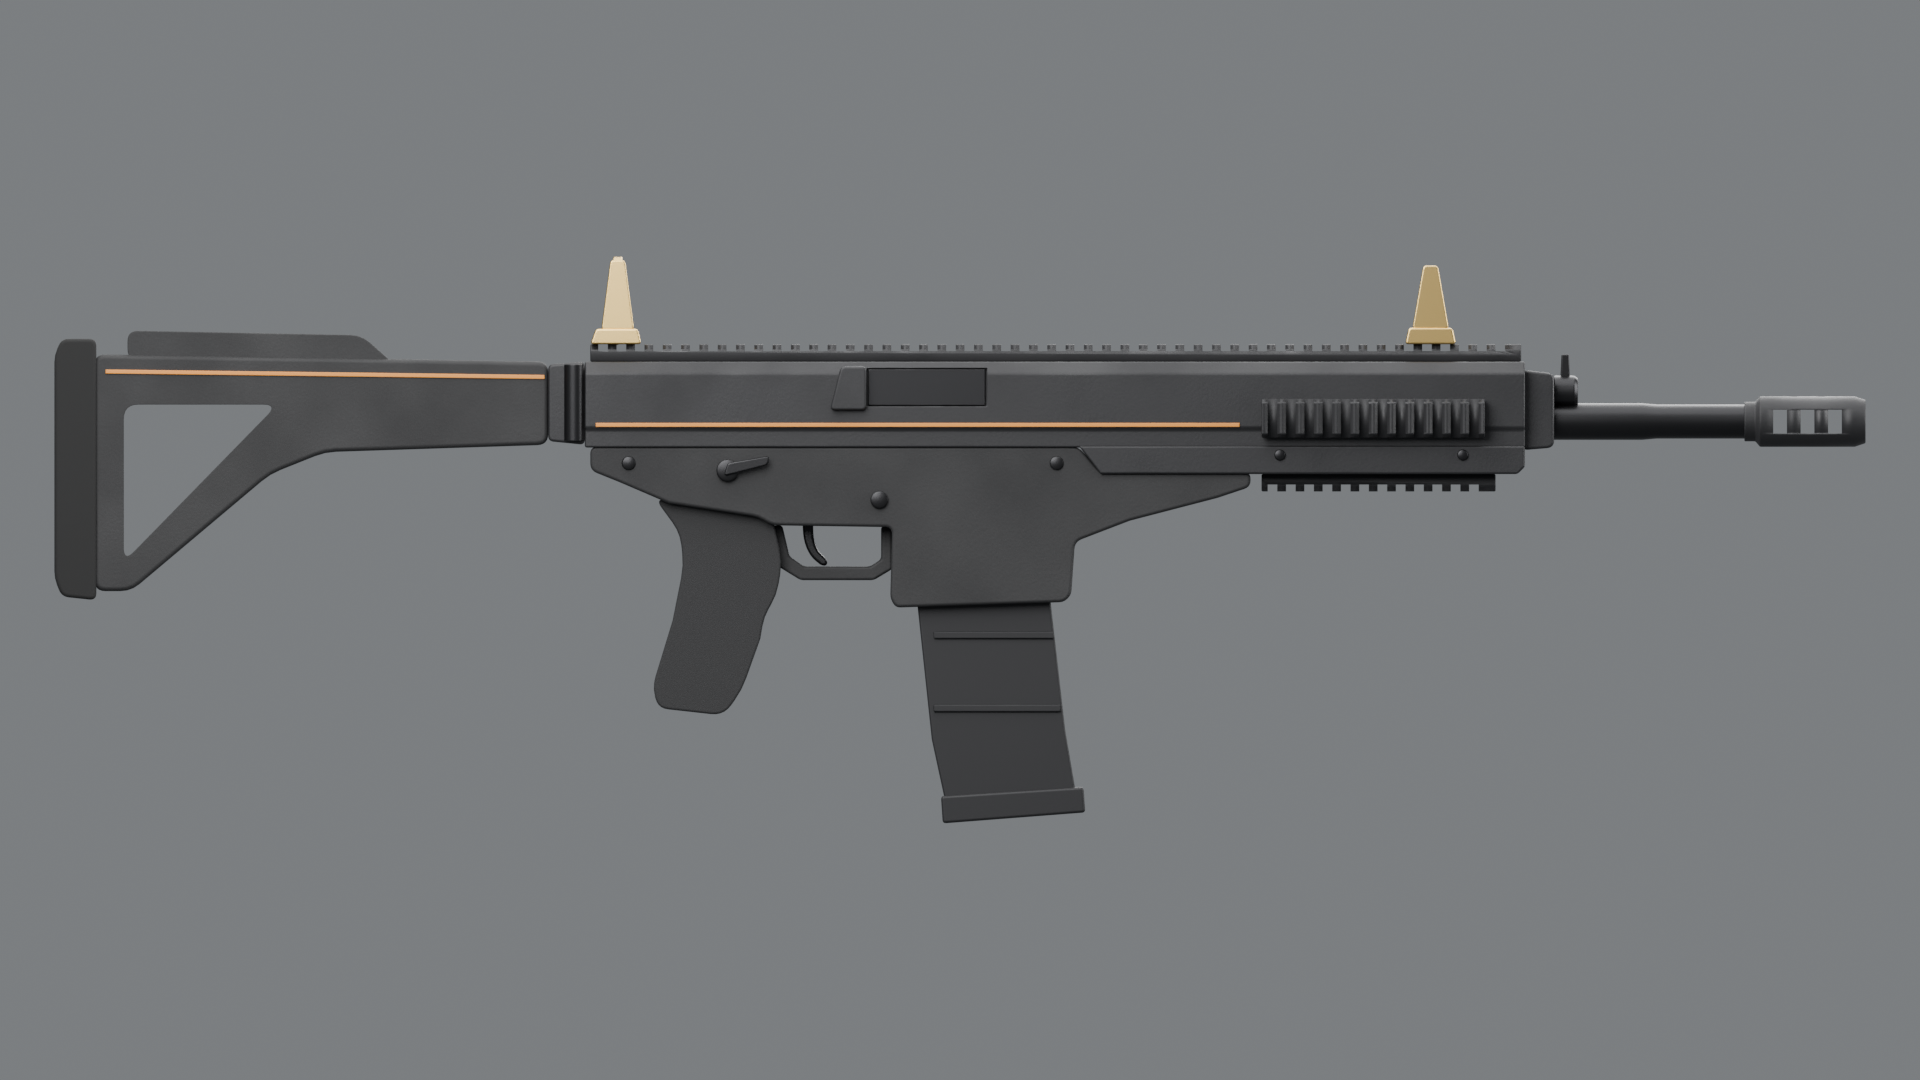
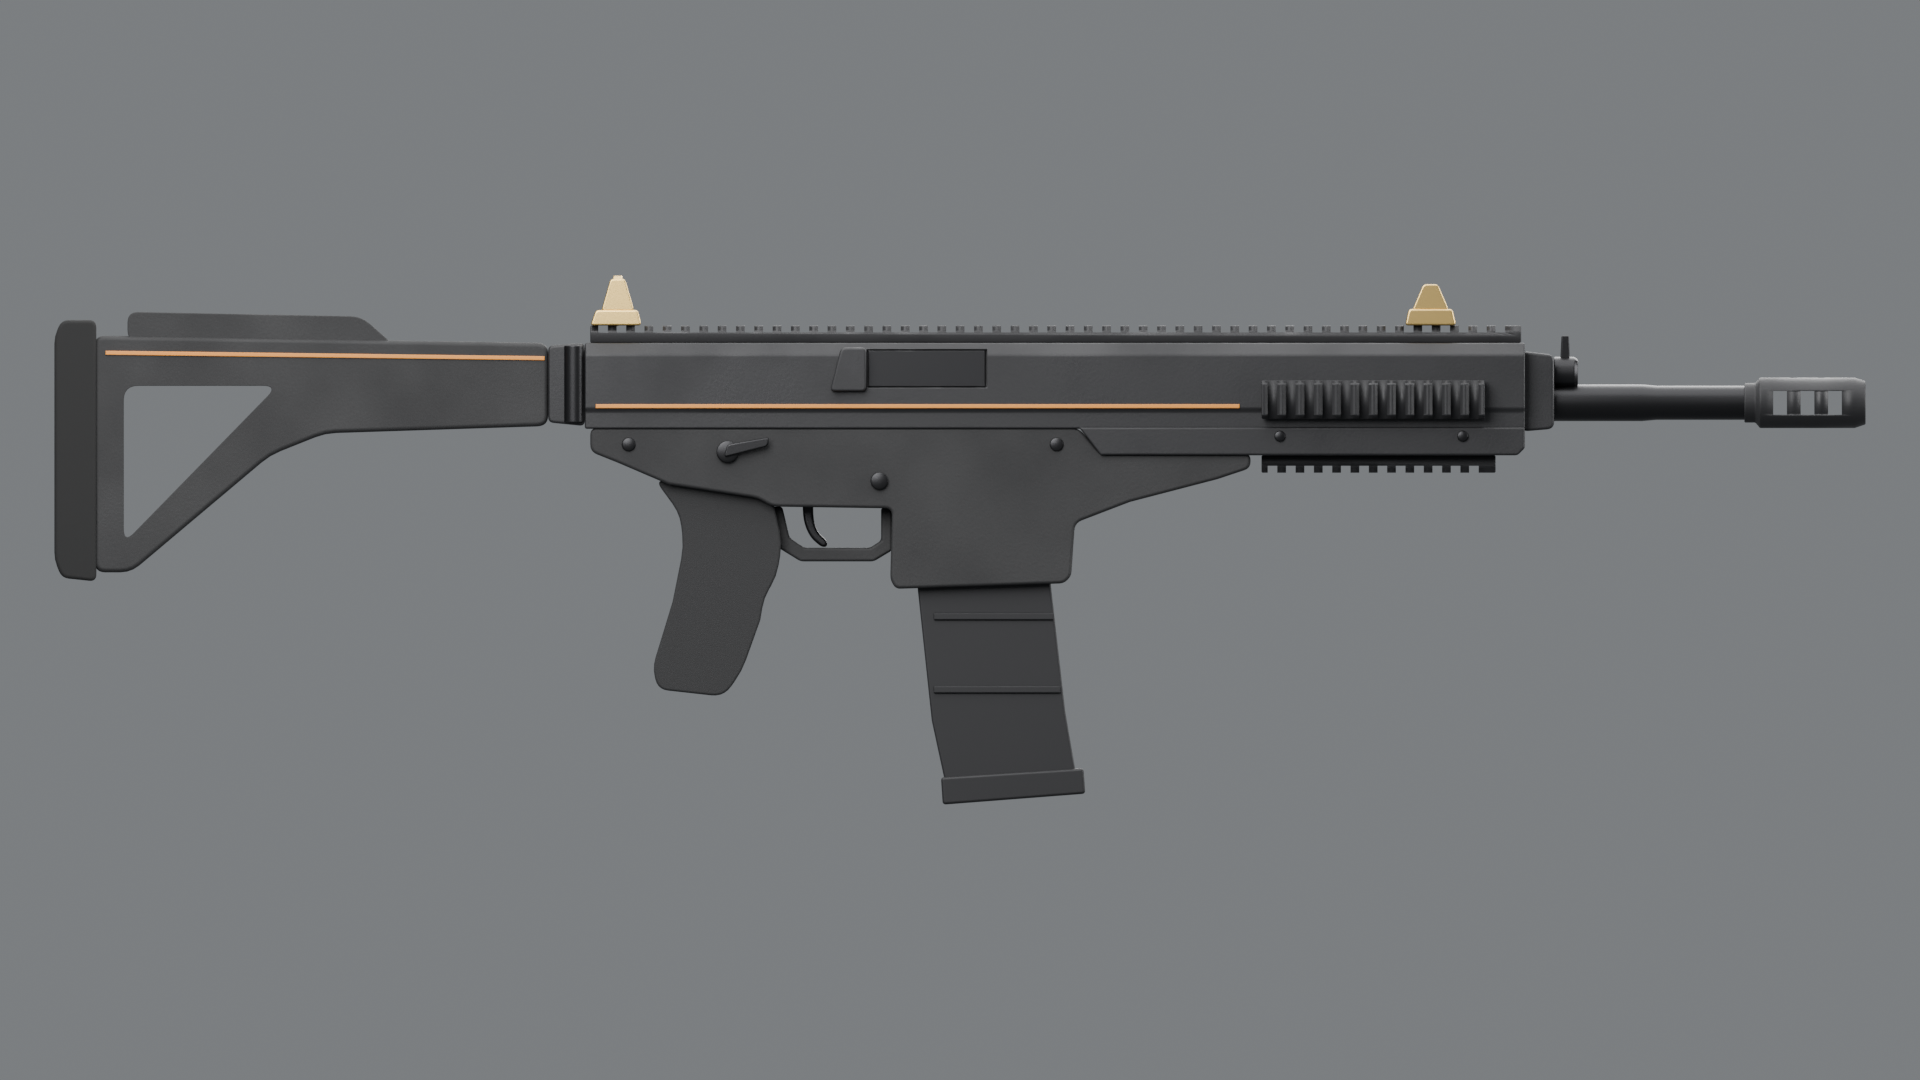
PeaceKeeper: iron sights at half the height (owner)

diff --git a/blender/afpk_blockout.py b/blender/afpk_blockout.py
@@ -38,7 +38,7 @@ import af7_vanguard_detailed as d  # noqa: E402
 PREFIX = "PK_"
 BORE = 0.0887
 MUZZLE = 0.5423
-EYE = (-0.147, 0.172)
+EYE = (-0.147, 0.1515)            # sight line: owner 2026-11-26 halved the sight height (vanilla eye z 0.172)
 TRIGGER = (-0.0361, 0.0367)
 MAG = (0.0567, 0.0245)
 BOLT = (0.2415, 0.1175)
@@ -251,9 +251,9 @@ def build():
              [(FRONT_SIGHT - 0.010, 0.1395), (FRONT_SIGHT + 0.010, 0.1395), (FRONT_SIGHT + 0.004, EYE[1] + 0.002),
               (FRONT_SIGHT - 0.004, EYE[1] + 0.002)], 0.0025, x=side * 0.0095, bevel=0.0007, rnd=0.002)
     prof("FrontTower", body, gold, [(FRONT_SIGHT - 0.006, 0.1395), (FRONT_SIGHT + 0.006, 0.1395),
-                                    (FRONT_SIGHT + 0.003, 0.1560), (FRONT_SIGHT - 0.003, 0.1560)], 0.0070,
+                                    (FRONT_SIGHT + 0.003, 0.1445), (FRONT_SIGHT - 0.003, 0.1445)], 0.0070,
          bevel=0.0006, rnd=0.0015)
-    prof("FrontPost", body, gold, [(FRONT_SIGHT - 0.0016, 0.1555), (FRONT_SIGHT + 0.0016, 0.1555),
+    prof("FrontPost", body, gold, [(FRONT_SIGHT - 0.0016, 0.1440), (FRONT_SIGHT + 0.0016, 0.1440),
                                    (FRONT_SIGHT + 0.0016, EYE[1] - 0.0035), (FRONT_SIGHT - 0.0016, EYE[1] - 0.0035)],
          0.0022, bevel=0.0003, note="front post (gold)")
     prof("FrontPostTip", body, red, [(FRONT_SIGHT - 0.0016, EYE[1] - 0.0035), (FRONT_SIGHT + 0.0016, EYE[1] - 0.0035),

diff --git a/docs/AF_SCAR.md b/docs/AF_SCAR.md
@@ -127,6 +127,9 @@ The hands are the same at rest and raised (within 2 mm).
     logo panels);
   - the **iron sights gold, with a red tip** on the front post.
   - **No gold version** (owner).
+  - **Sights half the height** (owner, 2026-11-26: "Lower the iron sight by half"): the sight line is 20.5 mm
+    above the rail (z 0.1515) instead of the vanilla 41 mm (z 0.172). Our model's `eye` memory point goes
+    there too, so the iron-sight view lines up.
 - The earlier "Our own design" points still stand (AF handguard, brake, stock, roll mark, no AF logo).
 
 ## Finish notes for the build
